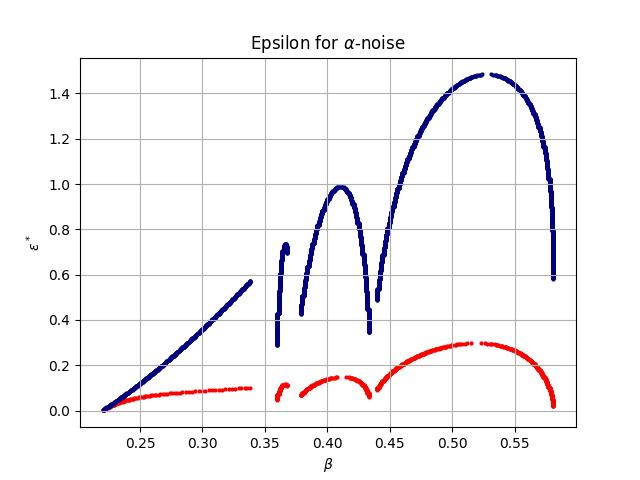
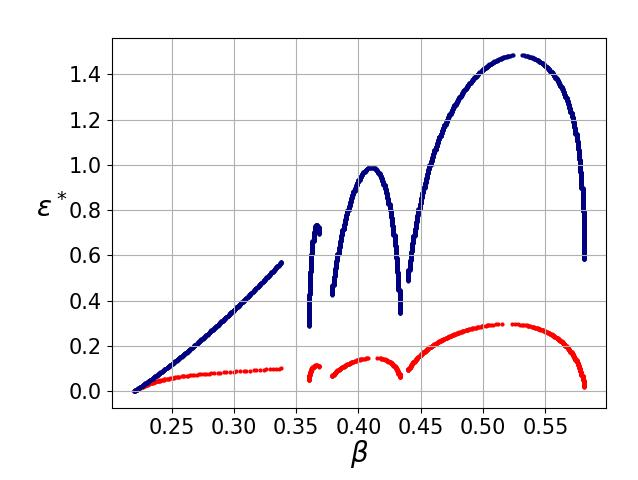
Upd

diff --git a/latex/stochastic/texfiles/time_series.tex b/latex/stochastic/texfiles/time_series.tex
@@ -1,8 +1,8 @@
 \subsection{Временные ряды}
 
-    На временных рядах можно продемонстрировать как различные виды шумавлияют на поведение системы.
+    На временных рядах можно продемонстрировать как различные виды шума влияют на поведение системы.
 
-    На рисунке \ref{time_series_x_0_06_a_1_b_0_56} изображено поведениемодели без добавления каких-либо шумов. Видно, что значения переменной \(x\) с течением времени стабилизируются. Численность популяциифактически остается неизменной.
+    На рисунке \ref{time_series_x_0_06_a_1_b_0_56} изображено поведение модели без добавления каких-либо шумов. Видно, что значения переменной \(x\) с течением времени стабилизируются. Численность популяции фактически остается неизменной.
 
     \begin{figure}
         \centering
@@ -39,8 +39,6 @@
     Все варианты рассматриваются с одной и той же интенсивностью шума \(\varepsilon = 0.004\). 
         
     Вид шума влияет на величину разброса значений численности популяции. Для того чтобы сравнить величину разброса можно обратить внимание на график дисперсии \ref{variance_cyclic}. И если в модели (\ref{origin}) численность популяции стабилизировалась и переставала хоть сколько-нибудь меняться, то в моделях (\ref{alpha_chaos}), (\ref{beta_chaos}) и (\ref{additive_chaos}) численность постоянно колеблется. Эти колебания происходят в рамках некоторого интервала значений. Численность популяции не растет и не уменьшается на какую-то значительную величину. Но такое поведение наблюдается не всегда.
-
-    \comment{Хорошая фраза: индуцированный шумом переход}
 
     Для демонстрации другого возможного поведения увеличим интенсивность шума до \(\varepsilon = 0.04\). На графике \ref{time_series_x_0_06_a_1_b_0_56_beta_chaos_epsilon_0_04_fall} видна ситуация, когда в одном эксперименте из-за шума траектория модели ушла в ноль. В другом эксперименте с точно такими же вводными параметрами получаем ситуацию, когда траектория не ушла в ноль, т.е. популяция выживала на протяжении анализируемого интервала времени. Данный пример изображен на картинке \ref{time_series_x_0_06_a_1_b_0_56_beta_chaos_epsilon_0_04_alive}. Аналогичные эффекты наблюдаются при других видах шума.
 

diff --git a/latex/stochastic/texfiles/bifurcation.tex b/latex/stochastic/texfiles/bifurcation.tex
@@ -1,6 +1,6 @@
 \subsection{Бифуркационные диаграммы}
 
-    Перейдем к рассмотрению графиков бифуркации моделей с разными видами шумов. На рисунках \ref{bifurcation_x_0_2_a_1_compare_alpha_noise}, \ref{bifurcation_x_0_2_a_1_compare_beta_noise} и \ref{bifurcation_x_0_2_a_1_compare_additional_noise} представлены графики бифуркационных диаграмм для моделей \ref{alpha_chaos}, \ref{beta_chaos} и \ref{additive_chaos}. Во всех моделях зафиксированно значение параметра \(\beta = 1\). Графики внешне напоминают детерминированный случай \ref{bifurcation_x_0_2_a_1_compare_no_noise}. На каждом графике, также как и в исходной модели, существует учсток равновесия, участки с циклами и участок с хаотическим поведенеим системы. От вида и интенсивности шума зависит то, насколько сильно отличается график с шумом от графика исходной модели \ref{origin}. 
+    Перейдем к рассмотрению графиков бифуркации моделей с разными видами шумов. На рисунках \ref{bifurcation_x_0_2_a_1_compare_alpha_noise}, \ref{bifurcation_x_0_2_a_1_compare_beta_noise} и \ref{bifurcation_x_0_2_a_1_compare_additional_noise} представлены графики бифуркационных диаграмм для моделей \ref{alpha_chaos}, \ref{beta_chaos} и \ref{additive_chaos}. Во всех моделях зафиксировано значение параметра \(\beta = 1\). Графики внешне напоминают детерминированный случай \ref{bifurcation_x_0_2_a_1_compare_no_noise}. На каждом графике, так же как и в исходной модели, существует участок равновесия, участки с циклами и участок с хаотическим поведением системы. От вида и интенсивности шума зависит то, насколько сильно отличается график с шумом от графика исходной модели \ref{origin}. 
 
     Можно заметить, что самое сильное влияние на значения оказывает \(\beta\)-шум. А, например, \(\alpha\)-шум оказывает незначительное влияние и диаграмма очень похожа на диаграмму детерминированного случая. Данные выводы также подтверждаются результатами, которые мы получили при построении временных рядов.
 

diff --git a/grpah/runner.py b/grpah/runner.py
@@ -1718,7 +1718,7 @@ def critical_intensity_beta_noise():
         values=values,
         b_range=p_range,
         a=1,
-        borders=[[0.44, 0.582355932], [0.379, 0.435], [0.36, 0.37], [0.22, 0.34]],
+        borders=[[0.44, 0.582355932], [0.379, 0.435], [0.36, 0.375], [0.22, 0.34]],
         m=lambda a, b, x: functions_b_noise.m(a, b, x, epsilon_),
         epsilon=epsilon_,
         f=lambda b, x: function.f(1, b, x),
@@ -1871,7 +1871,15 @@ def critical_intensity_beta_noise():
     yS = list(map(lambda x: x[2], S))
 
     (Plotter()
-        ._setup("$\\beta$", '$\\varepsilon^*$', 'linear', 'major', 'Epsilon for $\\beta$-noise')
+        .adjust(top=0.92, bottom=0.15, left=0.175, right=0.95)
+        .setup_x_label('$\\beta$', font_size=20, label_pad=0)
+        .setup_x_ticks(font_size=15)
+        .setup_y_label('$\\varepsilon^*$', font_size=20, label_pad=12)
+        .setup_y_ticks(font_size=15)
+        .setup_y_scale(scale.linear)
+        .setup_grid(grid.major)
+        # .setup_title('Epsilon for $\\beta$-noise')
+        # ._setup("$\\beta$", '$\\varepsilon^*$', 'linear', 'major', 'Epsilon for $\\beta$-noise')
         .scatter(xR, yR, '.', 'red')
         .scatter(xS, yS, '.', 'navy')
         .show())
@@ -2074,7 +2082,15 @@ def critical_intensity_alpha_noise():
     yS = list(map(lambda x: x[2], S))
 
     (Plotter()
-        ._setup("$\\beta$", '$\\varepsilon^*$', 'linear', 'major', 'Epsilon for $\\alpha$-noise')
+        .adjust(top=0.92, bottom=0.15, left=0.175, right=0.95)
+        .setup_x_label('$\\beta$', font_size=20, label_pad=0)
+        .setup_x_ticks(font_size=15)
+        .setup_y_label('$\\varepsilon^*$', font_size=20, label_pad=12)
+        .setup_y_ticks(font_size=15)
+        .setup_y_scale(scale.linear)
+        .setup_grid(grid.major)
+        # .setup_title('Epsilon for $\\alpha$-noise')
+        # ._setup("$\\beta$", '$\\varepsilon^*$', 'linear', 'major', 'Epsilon for $\\alpha$-noise')
         .scatter(xR, yR, '.', 'red')
         .scatter(xS, yS, '.', 'navy')
         .show())
@@ -2278,7 +2294,15 @@ def critical_intensity_additive_noise():
     yS = list(map(lambda x: x[2], S))
 
     (Plotter()
-        ._setup("$\\beta$", '$\\varepsilon^*$', 'linear', 'major', 'Epsilon for additive noise')
+        .adjust(top=0.92, bottom=0.15, left=0.175, right=0.95)
+        .setup_x_label('$\\beta$', font_size=20, label_pad=0)
+        .setup_x_ticks(font_size=15)
+        .setup_y_label('$\\varepsilon^*$', font_size=20, label_pad=12)
+        .setup_y_ticks(font_size=15)
+        .setup_y_scale(scale.linear)
+        .setup_grid(grid.major)
+        # .setup_title('Epsilon for additive noise')
+        # ._setup("$\\beta$", '$\\varepsilon^*$', 'linear', 'major', 'Epsilon for additive noise')
         .scatter(xR, yR, '.', 'red')
         .scatter(xS, yS, '.', 'navy')
         .show())

diff --git a/latex/stochastic/texfiles/stochastic_sensetivity_function.tex b/latex/stochastic/texfiles/stochastic_sensetivity_function.tex
@@ -1,6 +1,6 @@
 \subsection{Стохастическая чувствительность}
 
-    Для аппроксимации вероятностного распределения случайных состояний вокруг детерминированных аттракторов (равновеися или циклов) можно использовать сетод функции стохастический чувствительности. Данный подход описан в работе Ряшко Л. Б. \cite{Ryashko}.
+    Для аппроксимации вероятностного распределения случайных состояний вокруг детерминированных аттракторов (равновесия или циклов) можно использовать метод функции стохастический чувствительности. Данный подход описан в работе Ряшко Л. Б. \cite{Ryashko}.
 
     На графике \ref{bifurcation_x_0_2_a_1_beta_chaos_fss} красными линиями изображена функция стохастической чувствительности. 
 

diff --git a/latex/stochastic/texfiles/expected_value.tex b/latex/stochastic/texfiles/expected_value.tex
@@ -1,12 +1,12 @@
-\subsection{Матожидание}
+\subsection{Математическое ожидание}
 
-    На графике \ref{EV_cyclic} видно, что при увеличении интенсивности уменьшается интевал выживаемости популяции.
+    На графике \ref{EV_cyclic} видно, что при увеличении интенсивности уменьшается интервал выживаемости популяции.
         
     \begin{figure}
         \centering
         \includegraphics[width=\textwidth]{stochastic/images/EV_cyclic.jpg}
         
         \captionsetup{justification=centering}
-        \caption{Усредненное матожидание}
+        \caption{Усредненное математическое ожидание}
         \label{EV_cyclic}
     \end{figure}

diff --git a/latex/stochastic/texfiles/critical_intensity.tex b/latex/stochastic/texfiles/critical_intensity.tex
@@ -8,14 +8,14 @@
 
     \begin{figure}
         \centering
-        \subfloat[Модель (\ref{beta_chaos})]{
-            \includegraphics[width=0.55\textwidth]{stochastic/images/critical_intensity_beta_noise.jpg}
-            \label{critical_intensity_beta_noise}
-        }  
-
         \subfloat[Модель (\ref{alpha_chaos})]{
             \includegraphics[width=0.55\textwidth]{stochastic/images/critical_intensity_alpha_noise.jpg}
             \label{critical_intensity_alpha_noise}
+        }
+
+        \subfloat[Модель (\ref{beta_chaos})]{
+            \includegraphics[width=0.55\textwidth]{stochastic/images/critical_intensity_beta_noise.jpg}
+            \label{critical_intensity_beta_noise}
         }
         
         \subfloat[Модель (\ref{additive_chaos})]{

diff --git a/latex/stochastic/texfiles/metrics.tex b/latex/stochastic/texfiles/metrics.tex
@@ -2,7 +2,7 @@
         
     \comment{Тут опиши эту метрику}
 
-    Метрика Махаланобис расчитывается по формуле 
+    Метрика Махаланобис рассчитывается по формуле 
 
     \[d_M = \frac{|x_1 - x^*|}{\sqrt{M}}\]
         

diff --git a/grpah/te.py b/grpah/te.py
@@ -1,0 +1,9 @@
+import socket
+from http.client import HTTPConnection
+
+if __name__ == "__main__":
+    with socket.socket(socket.AF_INET, socket.SOCK_STREAM) as s:
+        s.connect(("127.0.0.1", 3345))
+        s.sendall(b"Hello, world")
+        data = s.recv(1024)
+        print(data)

diff --git a/grpah/main.py b/grpah/main.py
@@ -77,6 +77,6 @@ if __name__ == "__main__":
     # run_machalanobis_alpha_noise()
     # run_machalanobis_additive_noise()
 
-    # critical_intensity_beta_noise()
+    critical_intensity_beta_noise()
     # critical_intensity_alpha_noise()
     # critical_intensity_additive_noise()
